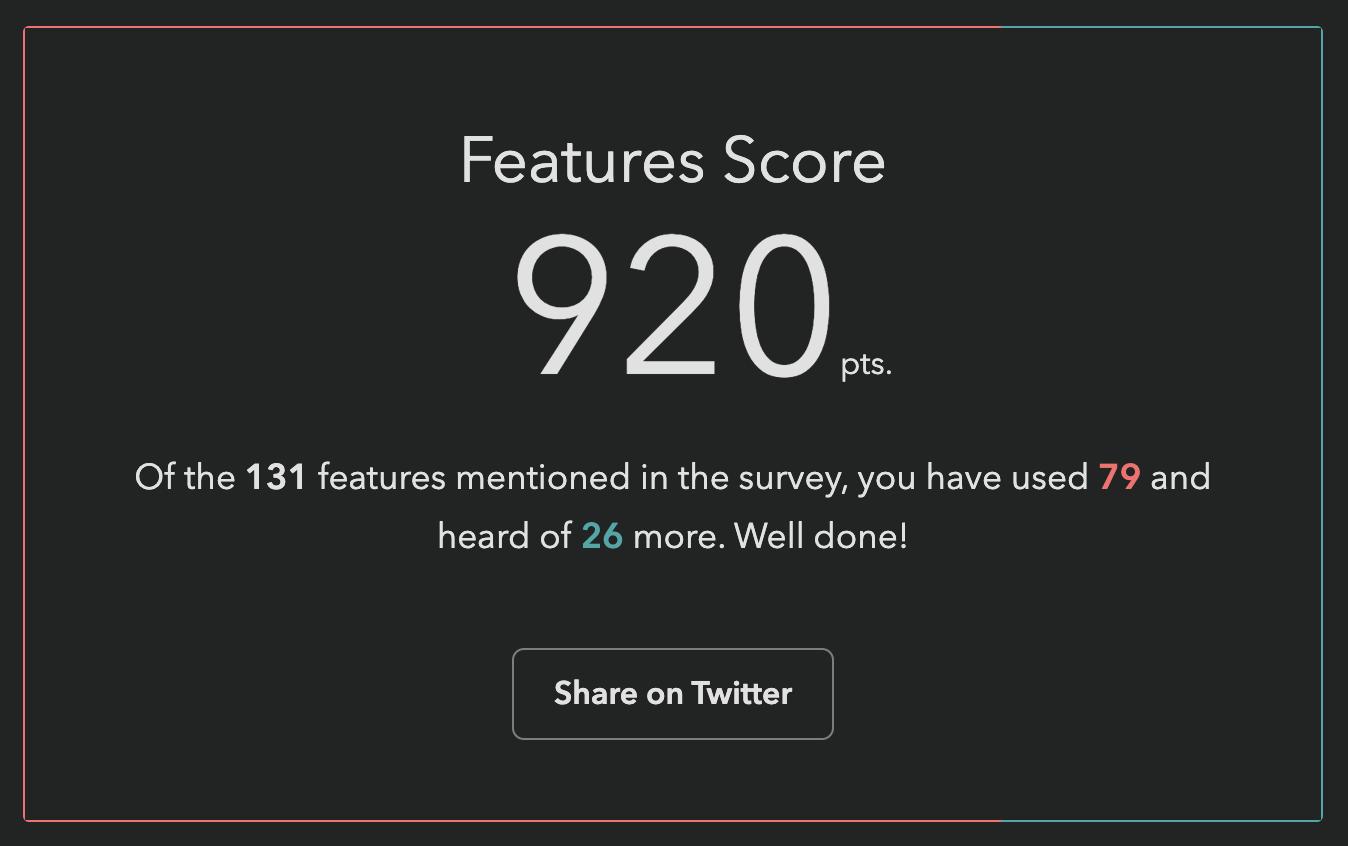
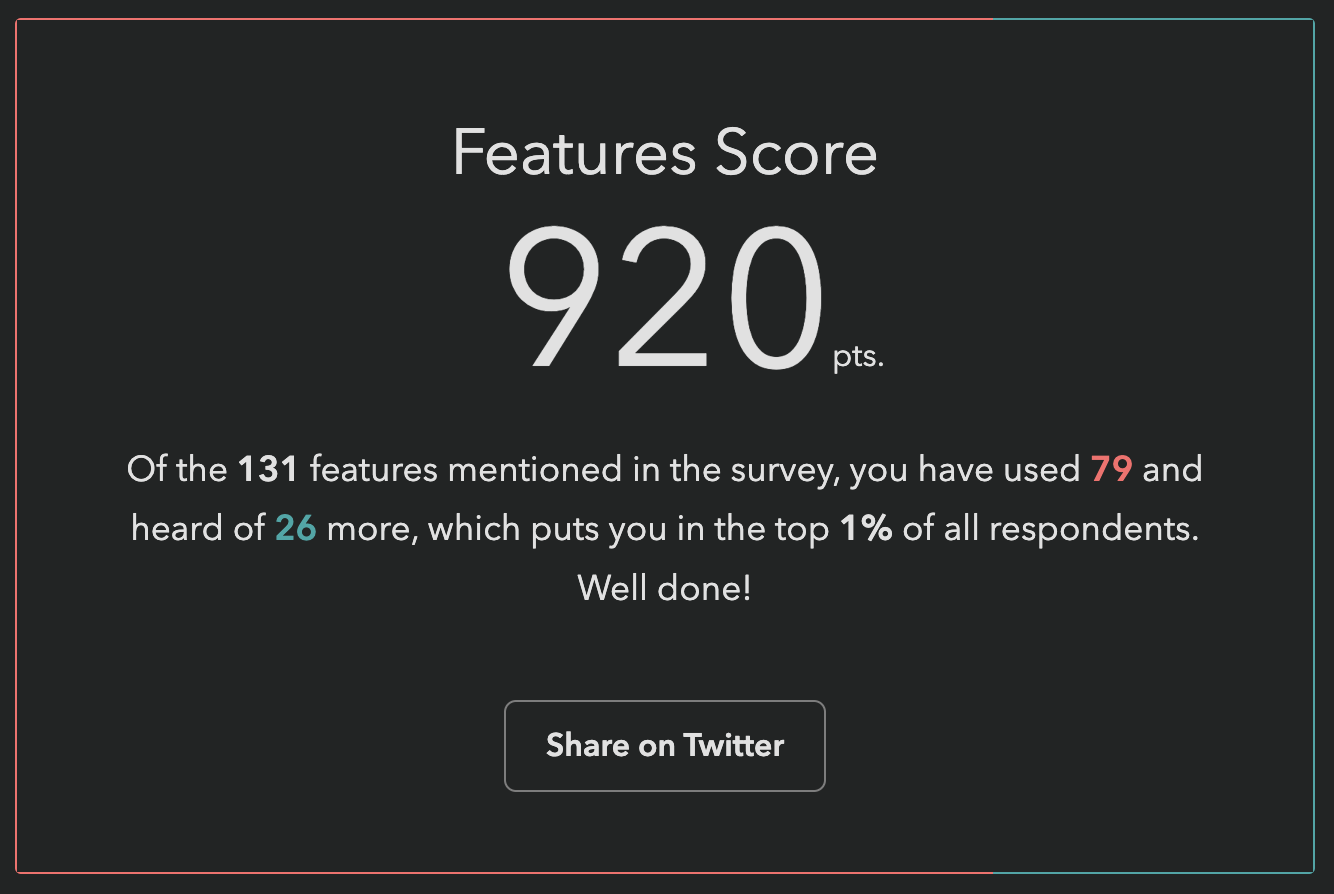
Ranking

diff --git a/2023/state-of-html-2023/index.md b/2023/state-of-html-2023/index.md
@@ -1,6 +1,7 @@
 ---
 title: State of HTML 2023 now open!
 date: 2023-09-22
+edited: 2023-09-26
 image: images/logo.png
 toc: true
 social_posts:
@@ -140,6 +141,9 @@ It therefore felt unfair to many to report that you’ve "heard or used" X% of f
 To address this, we changed the score to be a sum of points, a bit like a video game:
 each used feature is worth 10 points, each known feature is worth 5 points.
 
+Since the new score is harder to interpret by itself and only makes sense in comparison to others,
+we also show your rank among other participants, to make this easier.
+
 <figure>
 
 ![920 pts score, used 79 features out of 131, heard of 26 more](images/my-score-new.png)
@@ -148,14 +152,11 @@ each used feature is worth 10 points, each known feature is worth 5 points.
 
 My score after the change.
 If you have already taken the survey, you can just revisit it (with the same device & browser if filled it in anonymously)
-and go straight to the finish page to see your new score.
+and go straight to the finish page to see your new score and ranking!
 
 </figcaption>
 </figure>
 
-The downside of the new score is that it's harder to interpret by itself, it only makes sense in comparison to others.
-You can search for the #StateOfHTML hashtag on microblogging services (e.g. here’s [Twitter](https://twitter.com/search?q=%23StateOfHTML&src=typed_query&f=live)).
-We are also working on displaying your rank among other participants automatically, to make this easier.
 
 ### I found a bug, what should I do?
 
